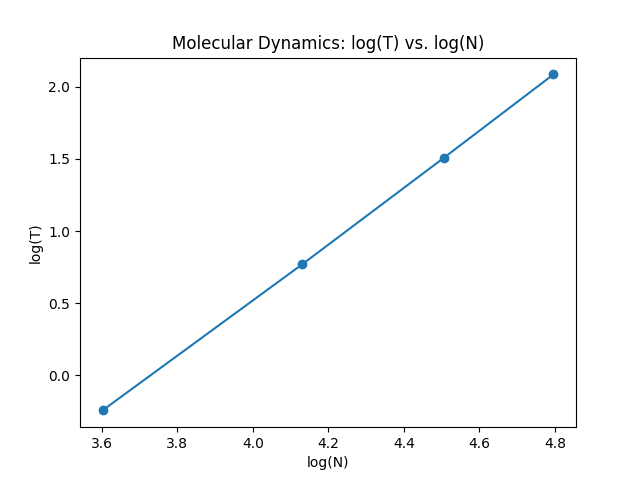
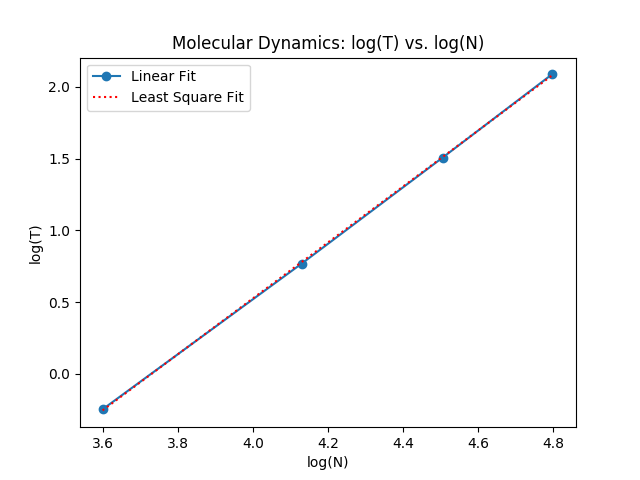
final edits to HW1

diff --git a/HW 1/CS596-HW1-Plot.py b/HW 1/CS596-HW1-Plot.py
@@ -12,11 +12,11 @@ NUM_ELEMENTS = 4
 print("Log N", logN)
 print("Log T", logT)
 
-plt.plot(logN, logT, marker="o")
+plt.plot(logN, logT, marker="o", label="Linear Fit")
 plt.xlabel("log(N)")
 plt.ylabel("log(T)")
 plt.title("Molecular Dynamics: log(T) vs. log(N)")
-plt.savefig("HW1-MDTime-Plot.png")
+
 
 point1 = [logN[0], logT[0]]
 point2 = [logN[3], logT[3]]
@@ -38,3 +38,9 @@ b = ( -1*(np.sum(logN)*np.dot(logN, logT)) + (np.sum(np.square(logN))*np.sum(log
 
 print("a: ", a)
 print("b:", b)
+
+x = np.linspace(3.6,4.8,100)
+y = a*x + b
+plt.plot(x, y, ':r', label='Least Square Fit')
+plt.legend(loc='upper left')
+plt.savefig("HW1-MDTime-Plot.png")
